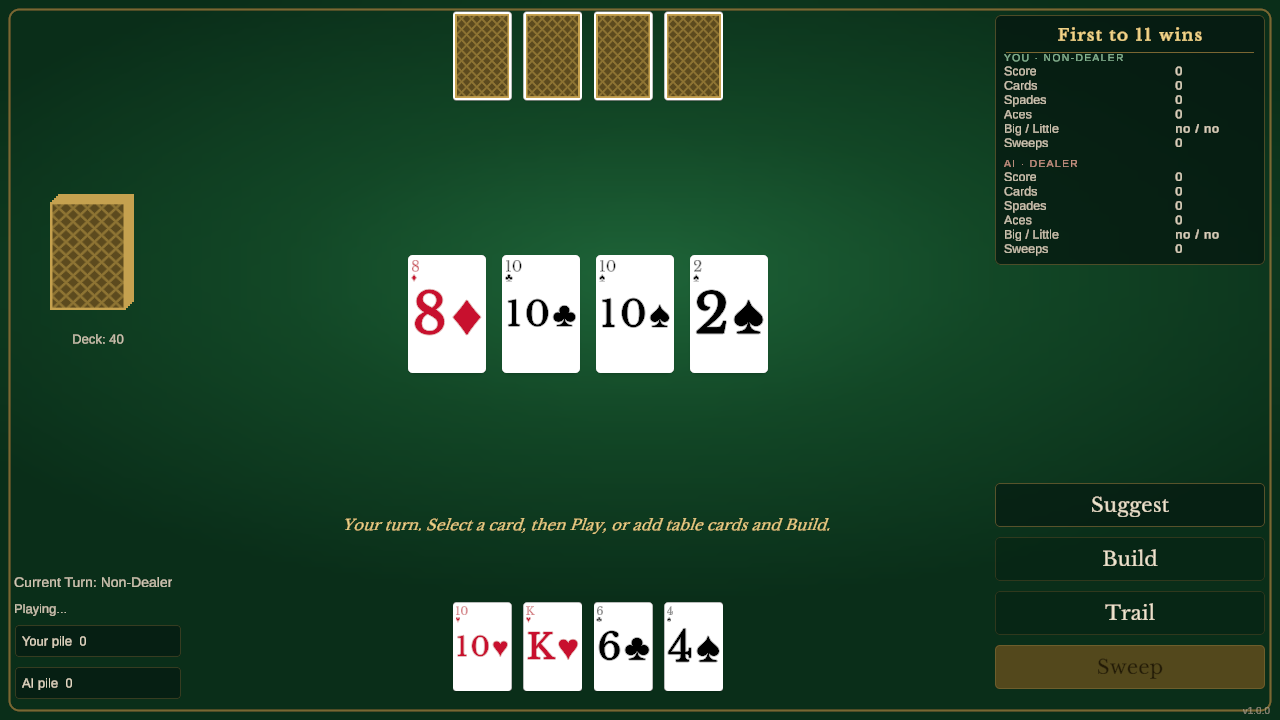
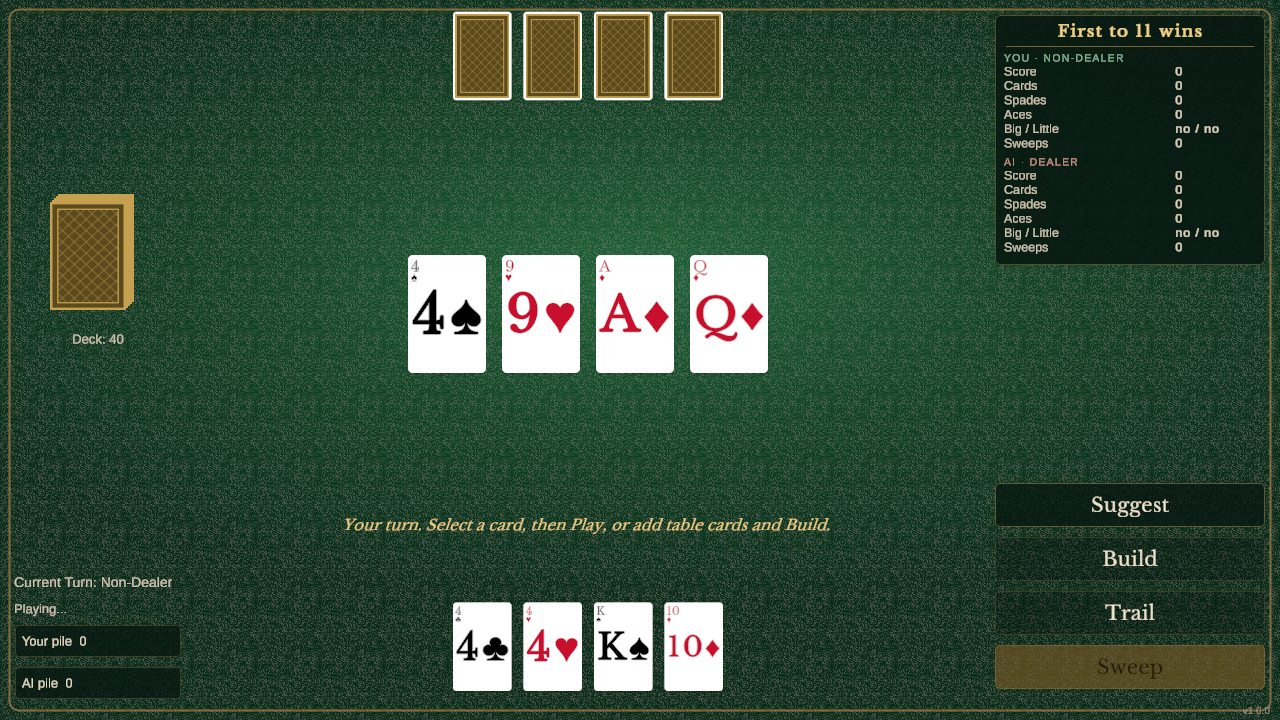
Stage 5: felt grain and a card back that looks like a card back
Procedural rather than imported PNGs, which was not the original plan but wins
here: the felt must cover any aspect ratio, the card back must stay crisp at
three card sizes, and both are flat-colour geometry a generator does better than
a raster at one fixed resolution. The project still ships no binary art except
the OFL font.

Felt grain is a separate tiled layer, not baked into the gradient, because the
gradient is a 128px sprite stretched across the whole screen and any detail in it
blurs away. Two octaves of deterministic value noise (deterministic so screenshots
of one build stay comparable). Tuning took three passes and both extremes were
wrong: mottle-dominant read as blotches, per-pixel-dominant read as static. It
sits at 78/22 fine-to-mottle with alpha 0.17, which reads as tooth.

Card back was a single 12px lattice edge to edge, which looked like wallpaper. It
is now brass edge, bronze margin, inner hairline rule, and a finer gilt diamond
lattice with brighter studs at the crossings. The inset panel is what makes it
read as the back of a card rather than a patterned rectangle.

Grain also forced a change I did not expect: the panels and buttons were
translucent over the felt, so the grain came through them and speckled the text.
Their opacity went up rather than losing the texture.

diff --git a/Assets/Scripts/CasinoArt.cs b/Assets/Scripts/CasinoArt.cs
@@ -10,7 +10,7 @@ using UnityEngine;
 // picking Parlor.
 public static class CasinoArt
 {
-    private static Sprite feltSprite, cardBackSprite, railSprite;
+    private static Sprite feltSprite, cardBackSprite, railSprite, grainSprite;
     private static readonly Dictionary<string, Sprite> cache = new();
 
     // ---------------------------------------------------------------
@@ -109,6 +109,56 @@ public static class CasinoArt
         return feltSprite;
     }
 
+    // Fabric grain, tiled over the felt at 1:1.
+    //
+    // The felt gradient is a 128px sprite stretched over the whole screen, so any
+    // detail baked into it blurs away. Grain has to be a separate tiling layer or
+    // the table reads as a screen fill rather than cloth. Two octaves: a fine
+    // per-pixel tooth, and a slower mottle so it does not look like TV static.
+    public static Sprite FeltGrain()
+    {
+        if (grainSprite != null) return grainSprite;
+        const int N = 64;
+        var tex = new Texture2D(N, N, TextureFormat.RGBA32, false) { wrapMode = TextureWrapMode.Repeat };
+
+        for (int y = 0; y < N; y++)
+            for (int x = 0; x < N; x++)
+            {
+                float fine = Hash(x, y);
+                float mottle = Smooth(x / 4f, y / 4f, 16);
+                // Signed around mid grey: the overlay both lifts and darkens, so
+                // the felt keeps its own colour instead of being washed out.
+                float v = (fine - 0.5f) * 0.78f + (mottle - 0.5f) * 0.22f;
+                tex.SetPixel(x, y, new Color(v > 0 ? 1f : 0f, v > 0 ? 1f : 0f, v > 0 ? 1f : 0f,
+                                             Mathf.Abs(v) * 0.17f));
+            }
+        tex.Apply();
+        grainSprite = Sprite.Create(tex, new Rect(0, 0, N, N), new Vector2(0.5f, 0.5f));
+        return grainSprite;
+    }
+
+    // Deterministic, so screenshots of the same build are byte-identical.
+    private static float Hash(int x, int y)
+    {
+        uint h = (uint)(x * 374761393 + y * 668265263);
+        h = (h ^ (h >> 13)) * 1274126177u;
+        return ((h ^ (h >> 16)) & 0xFFFF) / 65535f;
+    }
+
+    // Value noise that wraps at `period`, so the tile has no visible seam.
+    private static float Smooth(float x, float y, int period)
+    {
+        int x0 = Mathf.FloorToInt(x), y0 = Mathf.FloorToInt(y);
+        float fx = x - x0, fy = y - y0;
+        fx = fx * fx * (3 - 2 * fx);
+        fy = fy * fy * (3 - 2 * fy);
+        float A = Hash(x0 % period, y0 % period);
+        float B = Hash((x0 + 1) % period, y0 % period);
+        float C = Hash(x0 % period, (y0 + 1) % period);
+        float D = Hash((x0 + 1) % period, (y0 + 1) % period);
+        return Mathf.Lerp(Mathf.Lerp(A, B, fx), Mathf.Lerp(C, D, fx), Mathf.Lerp(0, 1, fy));
+    }
+
     // Gilt lattice on bronze with a brass edge, replacing the navy card back.
     public static Sprite CardBack()
     {
@@ -119,12 +169,28 @@ public static class CasinoArt
         var gilt = CasinoTheme.CardBackLattice;
         var border = CasinoTheme.CardBackBorder;
 
+        // Brass edge, a bronze margin, then a finer gilt diamond lattice inside a
+        // second hairline. The single 12px lattice edge-to-edge read as wallpaper;
+        // the inset panel is what makes it look like the back of a card.
         for (int y = 0; y < H; y++)
             for (int x = 0; x < W; x++)
             {
-                bool onBorder = x < 2 || y < 2 || x >= W - 2 || y >= H - 2;
-                bool stripe = ((x + y) % 12) < 3 || ((x - y + 960) % 12) < 3;
-                tex.SetPixel(x, y, onBorder ? border : stripe ? gilt : field);
+                bool outerEdge = x < 2 || y < 2 || x >= W - 2 || y >= H - 2;
+                bool margin = x < 6 || y < 6 || x >= W - 6 || y >= H - 6;
+                bool innerRule = !margin && (x == 6 || y == 6 || x == W - 7 || y == H - 7);
+
+                // Diamond lattice: two crossing stripe families at 8px pitch.
+                bool a = ((x + y) % 10) < 1;
+                bool b = ((x - y + 960) % 10) < 1;
+                bool node = a && b;   // where they cross, brighten to a stud
+
+                Color c = outerEdge ? border
+                        : innerRule ? border
+                        : margin    ? field
+                        : node      ? Color.Lerp(gilt, border, 0.55f)
+                        : (a || b)  ? gilt
+                        : field;
+                tex.SetPixel(x, y, c);
             }
         tex.Apply();
         cardBackSprite = Sprite.Create(tex, new Rect(0, 0, W, H), new Vector2(0.5f, 0.5f));

diff --git a/Assets/Scripts/UIManager.cs b/Assets/Scripts/UIManager.cs
@@ -474,6 +474,20 @@ public class UIManager : MonoBehaviour
         feltImage.color = feltImage.sprite != null ? Color.white : CasinoTheme.TableFelt;
         feltImage.raycastTarget = false;
 
+        // Fabric grain over the felt, tiled so it stays sharp at any screen size.
+        GameObject grain = new("TableGrain");
+        grain.transform.SetParent(canvasTransform, false);
+        grain.transform.SetSiblingIndex(1);
+        var grainRect = grain.AddComponent<RectTransform>();
+        grainRect.anchorMin = Vector2.zero;
+        grainRect.anchorMax = Vector2.one;
+        grainRect.offsetMin = grainRect.offsetMax = Vector2.zero;
+        var grainImage = grain.AddComponent<Image>();
+        grainImage.sprite = CasinoArt.FeltGrain();
+        grainImage.type = Image.Type.Tiled;
+        grainImage.color = Color.white;
+        grainImage.raycastTarget = false;
+
         // Brass rail: the inset frame that makes the board read as a table with
         // edges rather than a coloured window. 9-sliced so it stays a hairline.
         GameObject rail = new("TableRail");
@@ -646,7 +660,7 @@ public class UIManager : MonoBehaviour
         // Our runtime objects stay too
         foreach (Transform child in canvasTransform)
         {
-            if (child.name == "TableFelt" || child.name == "TableRail" || child.name == "ScorePanel" ||
+            if (child.name == "TableFelt" || child.name == "TableGrain" || child.name == "TableRail" || child.name == "ScorePanel" ||
                 child.name == "BuildButton" || child.name == "SuggestButton" ||
                 child.name == "TrailButton" || child.name == "SweepButton" ||
                 child.name == "HintText" || child.name == "HumanPile" ||

diff --git a/Assets/Scripts/CasinoTheme.cs b/Assets/Scripts/CasinoTheme.cs
@@ -74,8 +74,8 @@ public static class CasinoTheme
     public static Color GameOverPanel => Palette.PanelDeep.WithAlpha(0.96f);
     public static Color PileViewerPanel => Palette.PanelDeep.WithAlpha(0.96f);
     public static Color RoundSummaryPanel => Palette.PanelDeep.WithAlpha(0.97f);
-    public static Color ScorePanel => Palette.PanelInk.WithAlpha(0.86f);
-    public static Color PileButton => Palette.PanelInk.WithAlpha(0.74f);
+    public static Color ScorePanel => Palette.PanelInk.WithAlpha(0.94f);
+    public static Color PileButton => Palette.PanelInk.WithAlpha(0.88f);
 
     // Transparent-but-raycastable: an Image needs a non-zero alpha to receive
     // clicks, so builds get an invisible hit area rather than a visible one.
@@ -85,7 +85,7 @@ public static class CasinoTheme
     // Buttons
     // ---------------------------------------------------------------
     public static Color ButtonPrimary => Palette.BrassDeep;                     // Sweep, Continue
-    public static Color ButtonSecondary => Palette.PanelInk.WithAlpha(0.72f);   // Build, Trail, Suggest
+    public static Color ButtonSecondary => Palette.PanelInk.WithAlpha(0.88f);   // Build, Trail, Suggest
     public static Color ButtonLabel => Palette.Parchment;
     public static Color ButtonPrimaryLabel => new(0.133f, 0.102f, 0.024f);
 

diff --git a/docs/UI-DESIGN-PLAN.md b/docs/UI-DESIGN-PLAN.md
@@ -236,7 +236,29 @@ diffing the real `layout-report.txt` against the spec numbers.
   sites, but have not been seen on screen; that needs playing a hand with a build
   on the table.
 
-**Stage 5 — Art assets**, split three ways as described above.
+**Stage 5 — Art assets. LANDED 2026-08-04, procedurally.**
+
+Everything is generated in `CasinoArt.cs` rather than imported, so the project
+still ships no binary art except the OFL font. That was not the original plan
+(which assumed PNGs from `canvas-design`) but procedural won on the merits here:
+the felt has to cover any aspect ratio, the card back has to stay crisp at three
+card sizes, and both are flat-colour geometry that a generator does better than
+a raster at fixed resolution.
+
+- **Felt** is a radial gradient lit above centre, with a separate tiled grain
+  layer. The grain has to be its own tiling Image: the gradient is a 128px sprite
+  stretched over the whole screen, so anything baked into it blurs away. Two
+  octaves, fine tooth dominant. Heavy mottle read as blotches and heavy per-pixel
+  noise read as static; the mix landed at 78/22 with alpha 0.17.
+- **Card back** is brass edge, bronze margin, inner hairline, then a fine gilt
+  diamond lattice with brighter studs where the stripes cross. The original
+  single 12px lattice edge-to-edge read as wallpaper; the inset panel is what
+  makes it look like the back of a card.
+- **Panel opacity** had to rise (0.72-0.86 to 0.88-0.94) once grain existed,
+  because the translucent panels let it through and it speckled the text.
+
+Remaining, if wanted: title art (there is no title screen), and a felt weave with
+direction rather than isotropic noise.
 
 **Stage 6 — DesignSync library**, only once the component vocabulary stops moving.
 Maintaining HTML components mirroring Unity components is real duplication cost and
